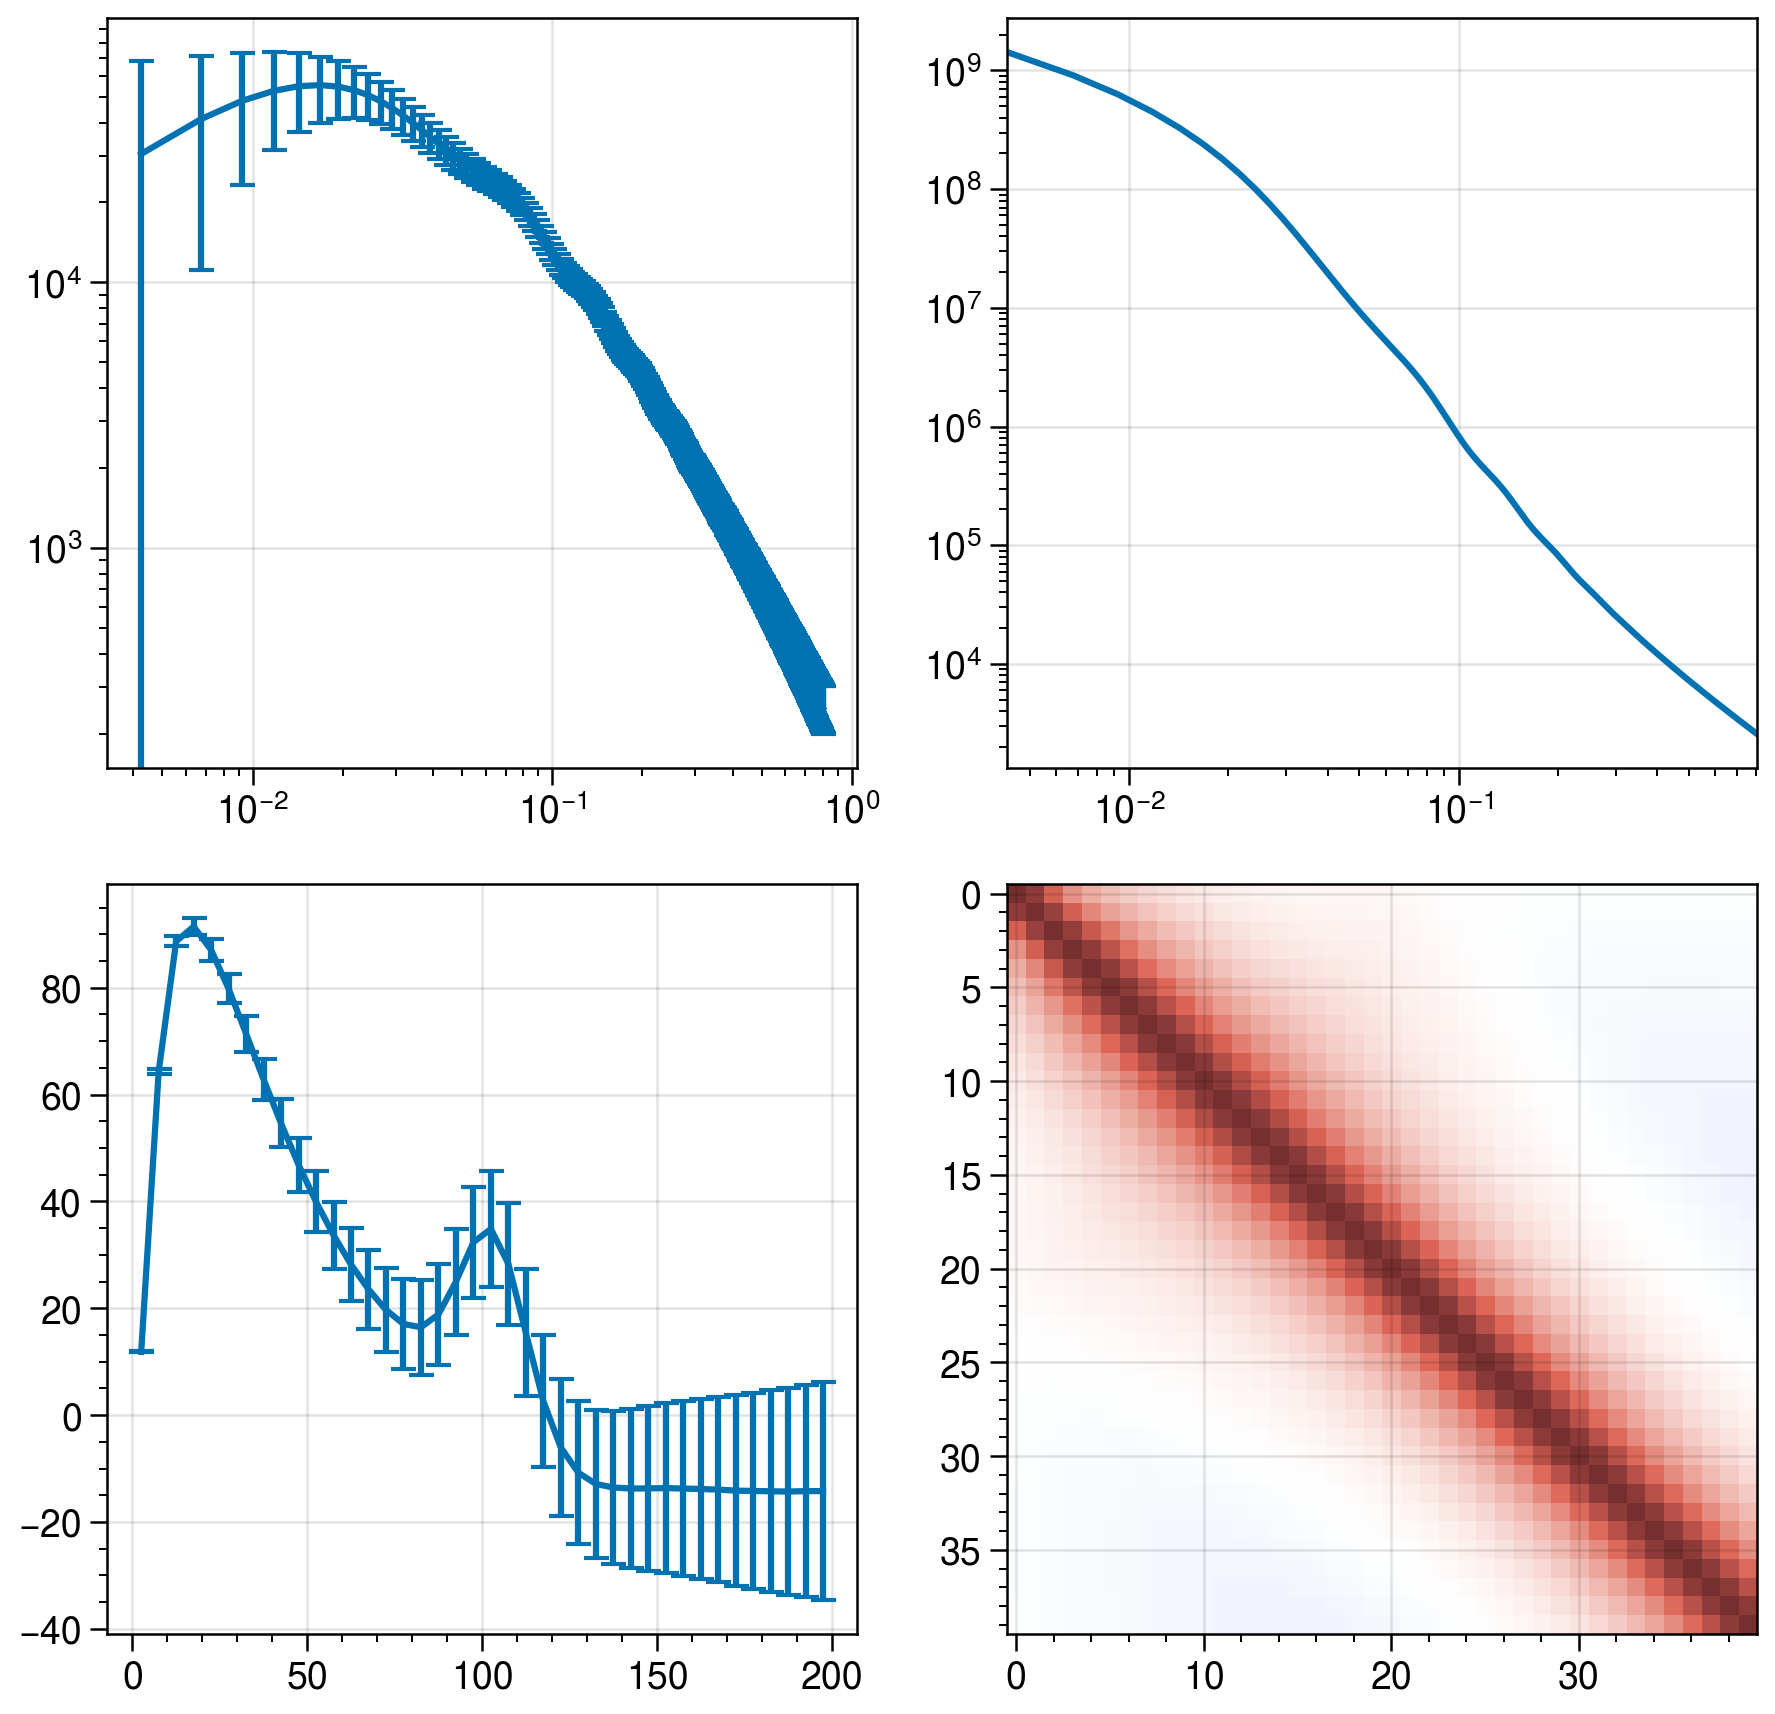
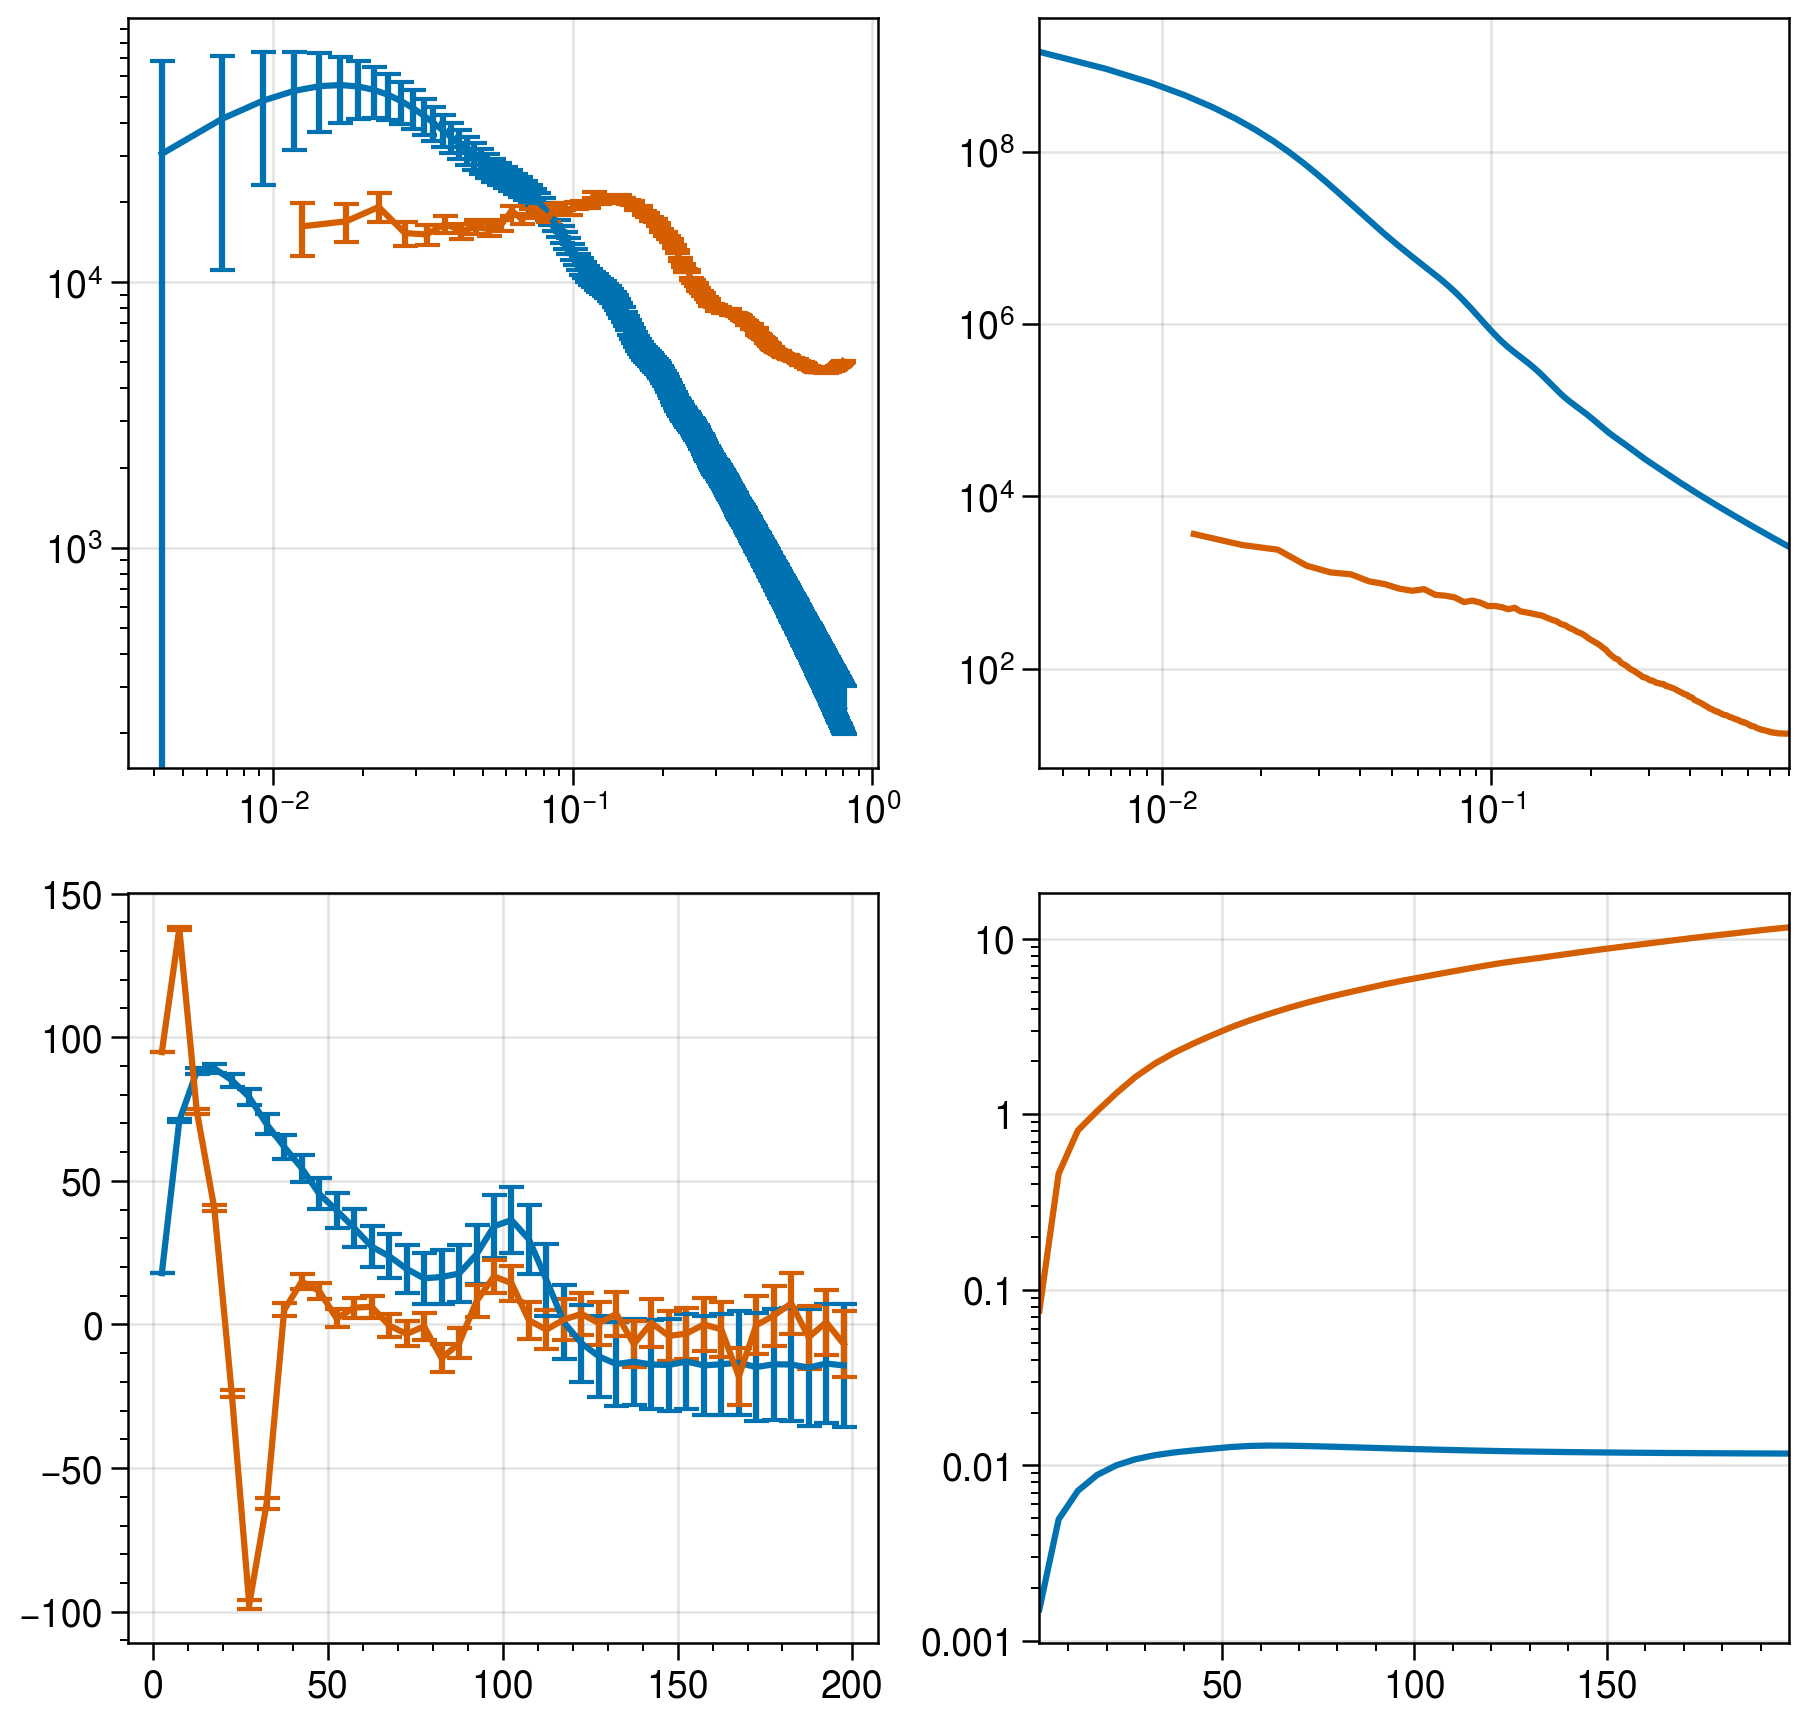
Started implementing ezmock, should think of way to obtain same customization without the mesh

diff --git a/tests/radius_cut.py b/tests/radius_cut.py
@@ -11,7 +11,7 @@ import pandas as pd
 import proplot as pplt
 
 from src.mas import cic_mas, cic_mas_vec
-from src.correlations import powspec, powspec_vec, xi_vec, powspec_vec_fundamental, xi_vec_fundamental, xi_vec_coords, s_edges_conv
+from src.correlations import powspec, powspec_vec, xi_vec, powspec_vec_fundamental, xi_vec_fundamental, xi_vec_coords, s_edges_conv, estimate_xi_covariance, estimate_pk_variance
 
 nsbin = 1000
 inv_cov = jnp.array(np.load("data/inv_cov_void.npy"))
@@ -27,7 +27,7 @@ cosmo = jc.Planck15()
 z = 0.466
 box_size = 1000.
 gain = 10.
-cut_position = 15.
+cut_position = 14.
 alpha_lambda = 1e-2
 
 plin_nw = jc.power.linear_matter_power(cosmo, k, a = 1. / (1 + z), transfer_fn=jc.transfer.Eisenstein_Hu, type='eisenhu')
@@ -44,7 +44,7 @@ def template_xi(Sigma_nl, c, sarr, k, plin, plin_nw, smooth_a):
 
 
 voids = pd.read_csv("data/CATALPTCICz0.466G960S1005638091_zspace.VOID.dat", usecols = (0,1,2,3), delim_whitespace=True, engine='c').values.astype(np.float32)
-mask = ((voids[:,:3] < box_size) & (voids[:,:3] > 0)).all(axis=1) 
+mask = ((voids[:,:3] < box_size) & (voids[:,:3] > 0)).all(axis=1) & (voids[:,3]>10.)
 voids = jax.device_put(voids[mask].copy())
 n_voids = voids.shape[0]
 inv_cov = jnp.array(np.load("data/inv_cov_void.npy"))
@@ -53,7 +53,7 @@ cov = jnp.array(np.load("data/cov_void.npy"))
 w = jax.nn.sigmoid(gain * (voids[:,3] - cut_position))
 
 
-n_bins = 320
+n_bins = 256
 
 
 delta_v = jnp.zeros((n_bins, n_bins, n_bins))
@@ -74,9 +74,22 @@ s_edges = s_edges[(s_edges >= 50.) & (s_edges <= 150.)]
 
 inv_cov = inv_cov[:,mask_s][mask_s, :]
 cov = cov[:,mask_s][mask_s, :]
+print(jnp.diag(inv_cov))
+
+k_edges = jnp.arange(1e-2, k_ny, 0.005)
+kp, pk, modes = powspec_vec(delta_v, box_size, k_edges) 
+dk = kp[1] - kp[0]
+pk_var = estimate_pk_variance(kp, pk[:,0], box_size, 0, dk)
+
 
 k_edges = s_edges_conv(n_bins, box_size, s_edges)
 s_centers, xiv, modes = xi_vec(delta_v, box_size, k_edges)
+cov = estimate_xi_covariance(s_centers, kp, pk, 3., pk_var, dk)
+print(cov.shape)
+inv_cov = jnp.array(np.linalg.inv(cov))
+
+print(jnp.diag(inv_cov)); 
+
 window = jnp.ones(4) / 4
 nuisance_s = s_centers[:, None]**(-jnp.arange(3)[None, ::-1])
 design_matrix = nuisance_s.T.dot(nuisance_s)
@@ -113,16 +126,16 @@ def chisq_nuisance(params, s_obs, xi_obs):
     e =  A_obs - a_params.dot(nuisance_s.T)
     return 0.5 * e.T.dot(inv_cov.dot(e))
 def neg_loglike(params, s_obs, xi_obs):
-    #return chisq(params, s_obs, xi_obs)
-    return chisq_nuisance(params, s_obs, xi_obs)
+    return chisq(params, s_obs, xi_obs)
+    #return chisq_nuisance(params, s_obs, xi_obs)
 
 neg_F = jax.hessian(neg_loglike)
 score_func = jax.grad(neg_loglike)
 
 
 
-#params = (1.03, 3., 1., 500., 2.7, -0.2, 0.)
-params = (1.03, 3., 1., 200.)
+params = (1.03, 3., 1., 200., 2.7, -0.2, 0.)
+#params = (1.03, 3., 1., 200.)
 
 
 fisher = jnp.array(neg_F(params, s_centers, xiv[:,0]))
@@ -150,7 +163,7 @@ def step(step, opt_state):
     value, grads = jax.value_and_grad(neg_loglike)(get_params(opt_state), s_centers, xiv[:,0])
     opt_state = opt_update(step, grads, opt_state)
     return opt_state
-num_steps = 500
+num_steps = 1000
 print("Training...", flush=True)
 s = time.time()
 opt_state = jax.lax.fori_loop(0, num_steps, step, opt_state)
@@ -162,8 +175,8 @@ fisher = jnp.array(neg_F(params, s_centers, xiv[:,0]))
 print("Final parameters:\n ", jnp.array(params))
 print("Final Fisher information:\n ", jnp.diag(fisher))
 print("Final scores:\n ", - jnp.array(score_func(params, s_centers, xiv[:,0])))
-#xi_model = model_curve(params, s_centers)
-xi_model = model_curve_nuisance(params, s_centers, xiv[:,0], s_centers)
+xi_model = model_curve(params, s_centers)
+#xi_model = model_curve_nuisance(params, s_centers, xiv[:,0], s_centers)
 ax[0].plot(s_centers, s_centers**2*xi_model)
 fig.savefig("plots/radius_cut.png", dpi=300)
 

diff --git a/tests/populate.py b/tests/populate.py
@@ -1,0 +1,99 @@
+import jax
+import jax.numpy as jnp
+import numpy as np
+import pandas as pd
+from src.populate_field import populate_field, ezmock
+from src.mas import cic_mas, cic_mas_vec
+from src.correlations import powspec, powspec_vec, xi_vec, powspec_vec_fundamental, xi_vec_fundamental, s_edges_conv
+import time
+import proplot as pplt
+
+n_bins = 256
+n_part = 1000
+box_size = 1000.
+k_ny = jnp.pi * n_bins / box_size
+particles = pd.read_csv("data/CATALPTCICz0.466G960S1005638091_zspace.dat", usecols = (0,1,2), names=['x', 'y', 'z'], dtype='float32', delim_whitespace=True).values
+mask = ((particles < box_size) & (particles > 0)).all(axis=1)
+particles = jax.device_put(particles[mask].copy())
+n_part = particles.shape[0]
+print(n_part)
+s_edges = jnp.linspace(0, 200, 51)
+
+
+
+shot_noise = box_size**3 / n_part
+
+
+w = jnp.ones(n_part)
+s = time.time()
+delta_r = jnp.zeros((n_bins, n_bins, n_bins))
+delta_r = cic_mas_vec(delta_r,
+                particles[:,0], particles[:,1], particles[:,2], w, 
+                n_part, 
+                particles[:,0].min(), particles[:,1].min(), particles[:,2].min(),
+                box_size,
+                n_bins,
+                True)
+print(f"MAS took {time.time() - s} s.", flush=True)
+
+key = jax.random.PRNGKey(42)
+key, subkey = jax.random.split(key)
+
+new_cat = ezmock((0.2, 1., 0.5), delta_r, n_bins, box_size, subkey)
+
+delta = delta_r / delta_r.mean()
+delta -= 1.
+
+
+
+fig, ax = pplt.subplots(nrows=1, ncols=3, sharex=False, sharey=False)
+
+s, xi, _ = xi_vec(delta, box_size, s_edges_conv(n_bins, box_size, s_edges))
+ax[2].plot(s, s**2*xi[:,0], label='input')
+
+
+m = ax[0].imshow(delta.mean(axis=-1), vmin=-1, vmax=2)
+ax[0].colorbar(m, loc='top')
+
+w = jnp.ones(new_cat.shape[0])
+delta = jnp.zeros((n_bins, n_bins, n_bins))
+delta = cic_mas_vec(delta,
+                new_cat[:,0], new_cat[:,1], new_cat[:,2], w, 
+                n_part, 
+                new_cat[:,0].min(), new_cat[:,1].min(), new_cat[:,2].min(),
+                box_size,
+                n_bins,
+                True)
+delta /= delta.mean()
+delta -= 1.
+s, xi, _ = xi_vec(delta, box_size, s_edges_conv(n_bins, box_size, s_edges))
+ax[2].plot(s, s**2*xi[:,0], label='populated')
+ax[2].legend()
+
+m = ax[1].imshow(delta.mean(axis=-1), vmin=-1, vmax=2)
+ax[1].colorbar(m, loc='top')
+
+
+key, subkey = jax.random.split(key)
+new_cat = populate_field(delta_r, n_bins, box_size, subkey)
+w = jnp.ones(new_cat.shape[0])
+
+delta = jnp.zeros((n_bins, n_bins, n_bins))
+delta = cic_mas_vec(delta,
+                new_cat[:,0], new_cat[:,1], new_cat[:,2], w, 
+                n_part, 
+                new_cat[:,0].min(), new_cat[:,1].min(), new_cat[:,2].min(),
+                box_size,
+                n_bins,
+                True)
+delta /= delta.mean()
+delta -= 1.
+s, xi, _ = xi_vec(delta, box_size, s_edges_conv(n_bins, box_size, s_edges))
+ax[2].plot(s, s**2*xi[:,0], label='populated 2')
+
+
+
+
+
+
+fig.savefig('plots/populate.png', dpi=300)

diff --git a/tests/estimate_pk_covariance.py b/tests/estimate_pk_covariance.py
@@ -5,7 +5,10 @@ import jax_cosmo as jc
 from jax_cosmo.correlations import xicalc_trapz, xicalc_trapz_linear
 import jax.numpy as jnp
 import proplot as pplt
-from src.correlations import s_edges_conv, xi_vec_coords
+from src.correlations import s_edges_conv, xi_vec_coords, xi_vec, powspec_vec, estimate_pk_variance, estimate_xi_covariance
+from src.mas import cic_mas_vec
+import pandas as pd
+import jax
 
 cosmo = jc.Planck15()
 z = 0.55
@@ -33,8 +36,9 @@ ax[0,:].format(xscale='log', yscale='log', xformatter='log', yformatter='log')
 
 fig.savefig("plots/estimate_pk_covariance.png", dpi=300)
 
-a_damp=3.
+a_damp=2.
 s_edges = jnp.linspace(0, 200, 41)
+#s_edges = s_edges[(s_edges >= 50.) & (s_edges <= 150.)]
 s = 0.5 * (s_edges[1:] + s_edges[:-1])
 s, xi0, _, _ = xicalc_trapz_linear(k, Pk, a_damp, s)
 
@@ -49,9 +53,60 @@ var_conf = jnp.diag(cov_conf)
 cov_mat = jnp.diag(cov)
 
 
-ax[3].imshow(cov_conf / jnp.sqrt(var_conf[:,None] * var_conf[None,:]))
+#ax[3].imshow(cov_conf / jnp.sqrt(var_conf[:,None] * var_conf[None,:]))
+ax[3].plot(s, s**2*jnp.diag(cov_conf))
 
 ax[2].errorbar(s, s**2*xi0, yerr = s**2*jnp.sqrt(jnp.diag(cov_conf)))
 
 fig.savefig("plots/estimate_pk_covariance.png", dpi=300)
 
+#exit()
+box_size = 1000.
+voids = pd.read_csv("data/CATALPTCICz0.466G960S1005638091_zspace.VOID.dat", usecols = (0,1,2,3), delim_whitespace=True, engine='c').values.astype(np.float32)
+mask = ((voids[:,:3] < box_size) & (voids[:,:3] > 0)).all(axis=1) 
+voids = jax.device_put(voids[mask].copy())
+n_voids = voids.shape[0]
+w = jax.nn.sigmoid(10 * (voids[:,3] - 16.))
+
+delta_v = jnp.zeros((n_bins, n_bins, n_bins))
+delta_v = cic_mas_vec(delta_v,
+            voids[:,0], voids[:,1], voids[:,2], w, 
+            n_voids, 
+            0., 0., 0.,
+            box_size,
+            n_bins,
+            True)
+delta_v /= delta_v.mean()
+delta_v -= 1.
+k_ny = jnp.pi * n_bins / box_size
+s_edges = jnp.linspace(0, 200, 41)
+#s_edges = s_edges[(s_edges >= 50.) & (s_edges <= 150.)]
+s_centers = 0.5 * (s_edges[1:] + s_edges[:-1])
+shot_noise = box_size**3 / n_voids #* w.sum()**2 / ((w**2).sum())
+
+k_edges = s_edges_conv(n_bins, box_size, s_edges)
+s_centers, xiv, modes = xi_vec(delta_v, box_size, k_edges)
+
+
+k_edges = jnp.arange(1e-2, k_ny, 0.005)
+kp, pk, modes = powspec_vec(delta_v, box_size, k_edges) 
+dk = kp[1] - kp[0]
+pk_var = estimate_pk_variance(kp, pk[:,0], box_size, 0, dk)
+
+
+xi_cov = estimate_xi_covariance(s_centers, kp, pk, a_damp, pk_var, dk)
+
+ax[0].errorbar(kp, pk[:,0], jnp.sqrt(pk_var))
+ax[1].plot(kp, jnp.sqrt(pk_var))
+
+ax[2].errorbar(s_centers, s_centers**2*xiv[:,0], s_centers**2*jnp.sqrt(jnp.diag(xi_cov)))
+ax[3].plot(s_centers, s_centers**2*jnp.sqrt(jnp.diag(xi_cov)))
+ax[3].format(yscale='log')
+
+
+
+
+
+
+
+fig.savefig("plots/estimate_pk_covariance.png", dpi=300)

diff --git a/src/populate_field.py b/src/populate_field.py
@@ -1,0 +1,56 @@
+import jax
+import jax.numpy as jnp
+
+def get_positions(key, number_particles, bin_size):
+    key, subkey = jax.random.split(key)
+    Rs = 2 * jax.random.uniform(subkey, shape = (number_particles,3)) - 1
+    Rs = jnp.sign(Rs) * (1 - jnp.sqrt(jnp.abs(Rs)))
+    
+    return Rs * bin_size
+
+def populate_field(rho, n_bins, box_size, key):
+    bin_size = box_size / n_bins
+    nonzero = (rho != 0).sum()
+    sorted_rho = jnp.argsort(rho.ravel())[::-1]#[:nonzero+1]
+    
+    flat_rho = rho.flatten()[sorted_rho]
+    grid_centers = jnp.array(jnp.unravel_index(sorted_rho, (n_bins, n_bins, n_bins))).T.astype(jnp.float32) * bin_size + 0.5 * bin_size
+    
+    key, subkey = jax.random.split(key)
+    number_objects = jax.random.poisson(subkey, flat_rho, shape=flat_rho.shape)
+    
+    displacements = get_positions(key, number_objects.sum(), bin_size)
+
+    coords = jnp.repeat(grid_centers, number_objects, axis=0) + displacements
+    return (coords + box_size) % box_size
+
+
+
+def ezmock(params, rho, n_bins, box_size, key):
+
+    rho_low, rho_high, lamda = params
+     
+    
+    rho = jnp.clip(rho, 0, rho_high)
+    rho - jnp.where(rho < rho_low, 0., rho)
+    key, subkey = jax.random.split(key)
+    G = jax.random.normal(subkey, rho.shape) * lamda
+    G = jnp.where(G >= 0, 1 + G, jnp.exp(G))
+    rho = rho * G
+    
+
+
+    positions = populate_field(rho, n_bins, box_size, key)
+    return positions
+    
+    
+
+
+
+
+
+
+
+    
+
+

diff --git a/tests/voids.py b/tests/voids.py
@@ -124,7 +124,7 @@ bias = 2.2
 plin = bias**2 * jc.power.linear_matter_power(jc.Planck15(), k, a=1. / (1 + z), transfer_fn=jc.transfer.Eisenstein_Hu)
 
 fig, ax = pplt.subplots(nrows=2, ncols=3, sharex=False, sharey=False)
-ax[2].imshow(delta[:,:,:].mean(axis=2), colorbar='r')
+ax[2].imshow(delta[:,:,:].mean(axis=2), colorbar='r', vmin=-1, vmax=1)
 ax[2].format(title='Corrected')
 ax[0].plot(k, pk, label='Corrected')
 ax[0].plot(k, plin, label='linear', ls=':')
@@ -149,7 +149,7 @@ k = k[mask]
 pk = pk[mask, 0]
 ax[0].plot(k, pk, label='Raw', ls='--')
 ax[0].format(xscale = 'log', yscale = 'log', xlabel='$k$ [$h$/Mpc]', ylabel='$P(k)$')
-ax[1].imshow(delta[:,:,:].mean(axis=2), colorbar='r')
+ax[1].imshow(delta[:,:,:].mean(axis=2), colorbar='r', vmin=-1, vmax=1)
 ax[1].format(title='Raw')
 
 
@@ -160,7 +160,7 @@ k = k[mask]
 pk = pk[mask, 0]
 ax[0].plot(k, pk, label='Void', ls='--')
 ax[0].format(xscale = 'log', yscale = 'log', xlabel='$k$ [$h$/Mpc]', ylabel='$P(k)$')
-ax[3].imshow(delta_v[:,:,:].mean(axis=2), colorbar='r')
+ax[3].imshow(delta_v[:,:,:].mean(axis=2), colorbar='r', vmin=-1, vmax=1)
 ax[3].format(title='Void')
 ax[0].legend(loc='bottom')
 

diff --git a/src/correlations.py b/src/correlations.py
@@ -405,7 +405,7 @@ def estimate_pk_variance(k, pk, box_size, shot_noise, dk):
 @jax.jit
 def estimate_xi_covariance(s, k, pk, a_damp, pk_variance, dk):
     """
-    Estimation of xi covariance from estimation ov Pk variance.
+    Estimation of xi covariance from estimation of Pk variance.
     TODO: Add function to estimate from covariance instead.
     """
     ks = k[:,None] * s[None,:]
@@ -414,7 +414,7 @@ def estimate_xi_covariance(s, k, pk, a_damp, pk_variance, dk):
     j0sq = jnp.einsum('ia,ib->iab', j0, j0)
     print(j0sq.shape)
     factor = dk**2 * k**4 * pk_variance * damp**2 / (2*jnp.pi**2)**2
-    cov_conf = (factor[:,None,None] * j0sq).sum(axis=0)
+    cov_conf = jnp.nansum(factor[:,None,None] * j0sq, axis=0)
     return cov_conf
 
 """
